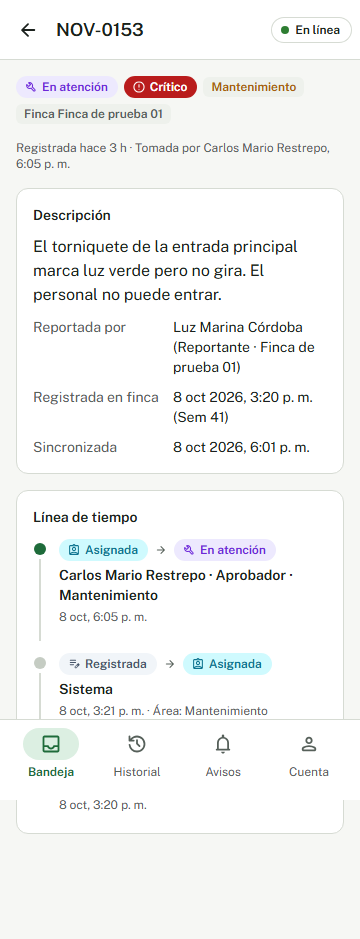
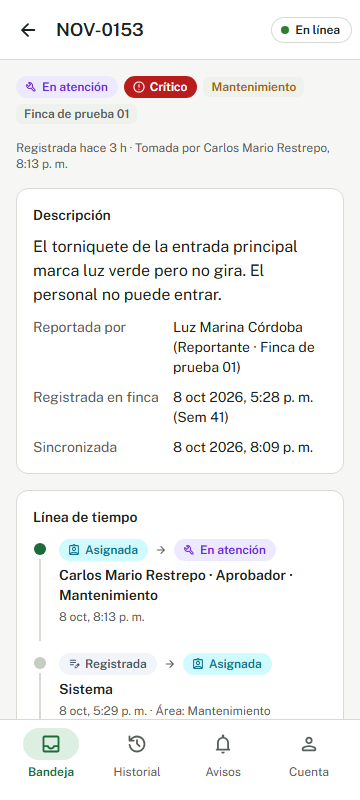
test(RF-18): e2e de CU-18, capturas y detalles del detalle
cu-18-consultar-detalle.spec.js (curso normal y alterno 2a por rol), capturas a 360 x 800 y 1280 x 800, lo que Figma no decide de las pantallas 13, 14, 22 y 22-B en docs/decisiones-pendientes.md, la etiqueta de la finca sin repetir «Finca», la marca de tiempo solo sobre la fecha y más margen para las esperas de las pruebas unitarias.

diff --git a/e2e/cu-18-consultar-detalle.spec.js b/e2e/cu-18-consultar-detalle.spec.js
@@ -1,0 +1,142 @@
+import { expect, test } from '@playwright/test'
+import { registrarPorLaApi } from './apoyo/novedades.js'
+import { descripcionUnica } from './apoyo/registro.js'
+import { HAY_CLAVE, ingresarComo, MOTIVO_SIN_CLAVE } from './apoyo/usuarios.js'
+
+/*
+ * CU-18 · Consultar el detalle y la línea de tiempo de una novedad (RF-18). Pantallas 13 y 14
+ * (teléfono), 22 (escritorio) y 22-B (sin permiso).
+ *
+ * El alcance lo decide la base de datos (RNF-11): quien no puede ver la novedad recibe una
+ * consulta sin filas y la aplicación muestra 22-B.
+ */
+
+// Al abrir una dirección, la aplicación recupera la sesión antes de pintar: misma espera que
+// el ingreso.
+const ESPERA_DE_SESION = { timeout: 20_000 }
+
+const SIN_PERMISO = { level: 1, name: 'No puedes ver esta novedad' }
+
+test.describe('CU-18 · Consultar el detalle y la línea de tiempo', () => {
+  test.skip(!HAY_CLAVE, MOTIVO_SIN_CLAVE)
+
+  /** Abre una sesión aparte para un rol. */
+  const sesionDe = async (browser, rol) => {
+    const contexto = await browser.newContext()
+    const page = await contexto.newPage()
+    await ingresarComo(page, rol)
+    return { contexto, page }
+  }
+
+  test('RF-18 / CU-18: el reportante abre su novedad desde Mis novedades y ve su línea de tiempo; el de otra finca no', async ({
+    browser,
+  }, testInfo) => {
+    const descripcion = descripcionUnica(testInfo, 'La bomba de riego del lote 4 no enciende')
+
+    // El reportante registra la novedad y la abre desde su lista.
+    const { contexto, page } = await sesionDe(browser, 'reportante')
+    const novedad = await registrarPorLaApi(page, {
+      descripcion,
+      prioridad: 'alto',
+      area: 'Mantenimiento',
+    })
+    const codigo = `NOV-${String(novedad.codigo).padStart(4, '0')}`
+    await page.reload()
+    await page.getByRole('listitem').filter({ hasText: descripcion }).getByRole('link').click()
+
+    // CU-18 3: código, estado, prioridad, área y descripción.
+    await expect(page).toHaveURL(new RegExp(`/novedades/${novedad.id}$`))
+    await expect(page.getByRole('heading', { level: 1, name: codigo })).toBeVisible()
+    const datos = page.getByRole('group', { name: 'Datos de la novedad' })
+    await expect(datos.getByText('Asignada')).toBeVisible()
+    await expect(datos.getByText('Alto')).toBeVisible()
+    await expect(datos.getByText('Mantenimiento')).toBeVisible()
+    await expect(page.getByText(descripcion)).toBeVisible()
+
+    // CU-18 4: la línea de tiempo trae la creación y el enrutamiento, del más reciente al
+    // más antiguo.
+    const pasos = page.getByRole('region', { name: 'Línea de tiempo' }).getByRole('listitem')
+    await expect(pasos).toHaveCount(2)
+    await expect(pasos.nth(0).getByText('Sistema')).toBeVisible()
+    await expect(pasos.nth(0).getByText(/Área: Mantenimiento$/)).toBeVisible()
+    await expect(pasos.nth(1).getByText('Reportante de prueba 01 · Reportante')).toBeVisible()
+
+    // Vuelve a la lista de la que salió.
+    await page.getByRole('link', { name: 'Volver a mis novedades' }).click()
+    await expect(page).toHaveURL(/\/novedades$/)
+    await contexto.close()
+
+    // CU-18 2a: el reportante de otra finca, con la misma dirección, no puede verla.
+    const otro = await sesionDe(browser, 'reportanteOtraFinca')
+    await otro.page.goto(`/novedades/${novedad.id}`)
+    await expect(otro.page.getByRole('heading', SIN_PERMISO)).toBeVisible(ESPERA_DE_SESION)
+    await expect(
+      otro.page.getByText('Solo puedes consultar las novedades de tu finca.'),
+    ).toBeVisible()
+    await expect(otro.page.getByText(descripcion)).toHaveCount(0)
+    await otro.page.getByRole('link', { name: 'Volver a mis novedades' }).click()
+    await expect(otro.page).toHaveURL(/\/novedades$/)
+    await otro.contexto.close()
+  })
+
+  test('RF-18 / CU-18 2 y 5: el aprobador del área y el director la consultan; el aprobador de la otra área no', async ({
+    browser,
+  }, testInfo) => {
+    const descripcion = descripcionUnica(testInfo, 'El computador de la báscula no enciende')
+
+    const reportante = await sesionDe(browser, 'reportante')
+    const novedad = await registrarPorLaApi(reportante.page, {
+      descripcion,
+      prioridad: 'normal',
+      area: 'Sistemas',
+    })
+    const codigo = `NOV-${String(novedad.codigo).padStart(4, '0')}`
+    await reportante.contexto.close()
+
+    // El aprobador del área (Sistemas) la ve, con su línea de tiempo.
+    const sistemas = await sesionDe(browser, 'aprobadorSistemas')
+    await sistemas.page.goto(`/novedades/${novedad.id}`)
+    await expect(sistemas.page.getByRole('heading', { level: 1, name: codigo })).toBeVisible(
+      ESPERA_DE_SESION,
+    )
+    await expect(sistemas.page.getByText(descripcion)).toBeVisible()
+    await expect(
+      sistemas.page.getByRole('region', { name: 'Línea de tiempo' }).getByRole('listitem'),
+    ).toHaveCount(2)
+    await sistemas.contexto.close()
+
+    // CU-18 2a: el aprobador de la otra área (Mantenimiento) recibe 22-B.
+    const mantenimiento = await sesionDe(browser, 'aprobador')
+    await mantenimiento.page.goto(`/novedades/${novedad.id}`)
+    await expect(mantenimiento.page.getByRole('heading', SIN_PERMISO)).toBeVisible(ESPERA_DE_SESION)
+    await expect(
+      mantenimiento.page.getByText('Solo puedes consultar las novedades de tu área.'),
+    ).toBeVisible()
+    await expect(mantenimiento.page.getByText(descripcion)).toHaveCount(0)
+    await mantenimiento.contexto.close()
+
+    // El director la consulta, pero sobre una asignada no tiene acciones (SDD, Tabla 35).
+    const director = await sesionDe(browser, 'director')
+    await director.page.goto(`/novedades/${novedad.id}`)
+    await expect(director.page.getByRole('heading', { level: 1, name: codigo })).toBeVisible(
+      ESPERA_DE_SESION,
+    )
+    await expect(director.page.getByText(descripcion)).toBeVisible()
+    await expect(director.page.getByRole('main').getByRole('button')).toHaveCount(0)
+    await director.contexto.close()
+  })
+
+  test('RF-18 / CU-18 2a: una dirección que no corresponde a ninguna novedad muestra 22-B', async ({
+    page,
+  }) => {
+    await ingresarComo(page, 'aprobador')
+
+    await page.goto('/novedades/00000000-0000-4000-8000-000000000000')
+    await expect(page.getByRole('heading', SIN_PERMISO)).toBeVisible(ESPERA_DE_SESION)
+
+    await page.goto('/novedades/no-es-un-identificador')
+    await expect(page.getByRole('heading', SIN_PERMISO)).toBeVisible(ESPERA_DE_SESION)
+    await page.getByRole('link', { name: 'Volver a la bandeja' }).click()
+    await expect(page).toHaveURL(/\/bandeja$/)
+  })
+})

diff --git a/src/modules/e4-consulta/DetalleNovedad.test.jsx b/src/modules/e4-consulta/DetalleNovedad.test.jsx
@@ -120,10 +120,19 @@ describe('Pantallas 13 y 14 · Detalle de la novedad en el teléfono (RF-18 / CU
     const encabezado = within(screen.getByRole('group', { name: 'Datos de la novedad' }))
     expect(encabezado.getByText('Asignada')).toBeVisible()
     expect(encabezado.getByText('Crítico')).toBeVisible()
-    expect(encabezado.getByText('Finca Finca de prueba 01')).toBeVisible()
+    expect(encabezado.getByText('Finca de prueba 01')).toBeVisible()
     expect(encabezado.getByText('Mantenimiento')).toBeVisible()
     expect(screen.getByText(ASIGNADA.descripcion)).toBeVisible()
     expect(screen.getByText('Registrada hace 25 min')).toBeVisible()
+  })
+
+  it('RF-18: la etiqueta de la finca antepone «Finca» al nombre, como Figma, sin repetirlo', async () => {
+    conNovedad({ ...ASIGNADA, finca: 'El Ejemplo' })
+    abrir()
+    await screen.findByRole('heading', { level: 1 })
+
+    const encabezado = within(screen.getByRole('group', { name: 'Datos de la novedad' }))
+    expect(encabezado.getByText('Finca El Ejemplo')).toBeVisible()
   })
 
   it('RNF-09: distingue quién la reportó, cuándo se registró en la finca y cuándo se sincronizó', async () => {
@@ -146,7 +155,9 @@ describe('Pantallas 13 y 14 · Detalle de la novedad en el teléfono (RF-18 / CU
     const pasos = linea.getAllByRole('listitem')
     expect(pasos).toHaveLength(2)
     expect(within(pasos[0]).getByText('Sistema')).toBeVisible()
-    expect(within(pasos[0]).getByText('24 sep, 7:41 a. m. · Área: Mantenimiento')).toBeVisible()
+    expect(within(pasos[0]).getByText('24 sep, 7:41 a. m.').parentElement).toHaveTextContent(
+      '24 sep, 7:41 a. m. · Área: Mantenimiento',
+    )
     expect(within(pasos[1]).getByText('Luz Marina Córdoba · Reportante')).toBeVisible()
   })
 
@@ -336,7 +347,7 @@ describe('Pantalla 22 · Detalle completo en el escritorio (RF-18 / CU-18)', () 
     expect(encabezado.getByText('Asignada')).toBeVisible()
     expect(encabezado.getByText('Crítico')).toBeVisible()
     expect(encabezado.getByText('Mantenimiento')).toBeVisible()
-    expect(encabezado.getByText('Finca Finca de prueba 01')).toBeVisible()
+    expect(encabezado.getByText('Finca de prueba 01')).toBeVisible()
     expect(screen.getByText('Razón social de prueba A')).toBeVisible()
     expect(screen.getByRole('link', { name: 'Volver a la bandeja' })).toHaveAttribute(
       'href',

diff --git a/src/core/ui/LineaDeTiempo.jsx b/src/core/ui/LineaDeTiempo.jsx
@@ -34,13 +34,12 @@ function autor(transicion) {
   return [usuario.nombre, nombreDeRol(usuario.rol_id), usuario.area].filter(Boolean).join(' · ')
 }
 
-/** «24 sep, 7:40 a. m. · Área: Sistemas»: la fecha y, si cambió, el área. */
-function detalle(transicion) {
-  const fecha = formatearFechaCorta(transicion.fecha_hora)
+/** « · Área: Sistemas» después de la fecha, si la transición cambió el área. */
+function cambioDeArea(transicion) {
   const nueva = transicion.area_nueva?.nombre
-  if (!nueva) return fecha
+  if (!nueva) return ''
   const anterior = transicion.area_anterior?.nombre
-  return anterior ? `${fecha} · Área: de ${anterior} a ${nueva}` : `${fecha} · Área: ${nueva}`
+  return anterior ? ` · Área: de ${anterior} a ${nueva}` : ` · Área: ${nueva}`
 }
 
 /**
@@ -84,7 +83,10 @@ export function LineaDeTiempo({ transiciones, conPie = false }) {
                 </p>
                 <p className="text-etiqueta-fuerte break-words text-texto">{autor(transicion)}</p>
                 <p className="text-auxiliar text-texto-secundario">
-                  <time dateTime={transicion.fecha_hora}>{detalle(transicion)}</time>
+                  <time dateTime={transicion.fecha_hora}>
+                    {formatearFechaCorta(transicion.fecha_hora)}
+                  </time>
+                  {cambioDeArea(transicion)}
                 </p>
                 {transicion.observacion ? (
                   <p className="rounded-lg bg-gris-100 px-2.5 py-2 text-cuerpo-pequeno break-words text-texto">

diff --git a/src/core/ui/LineaDeTiempo.test.jsx b/src/core/ui/LineaDeTiempo.test.jsx
@@ -76,7 +76,9 @@ describe('Línea de tiempo (RF-18 / CU-18 4, Figma 3:817 y 4:2212)', () => {
 
     const enrutamiento = within(pasos()[3])
     expect(enrutamiento.getByText('Sistema')).toBeVisible()
-    expect(enrutamiento.getByText('21 sep, 9:15 a. m. · Área: Mantenimiento')).toBeVisible()
+    expect(enrutamiento.getByText('21 sep, 9:15 a. m.').parentElement).toHaveTextContent(
+      '21 sep, 9:15 a. m. · Área: Mantenimiento',
+    )
     expect(enrutamiento.queryByText(/Luz Marina/)).not.toBeInTheDocument()
   })
 
@@ -120,9 +122,9 @@ describe('Línea de tiempo (RF-18 / CU-18 4, Figma 3:817 y 4:2212)', () => {
 
     const reasignacion = within(pasos()[0])
     expect(reasignacion.getByText('Jhon Fredy Mosquera · Aprobador · Sistemas')).toBeVisible()
-    expect(
-      reasignacion.getByText('24 sep, 7:40 a. m. · Área: de Sistemas a Mantenimiento'),
-    ).toBeVisible()
+    expect(reasignacion.getByText('24 sep, 7:40 a. m.').parentElement).toHaveTextContent(
+      '24 sep, 7:40 a. m. · Área: de Sistemas a Mantenimiento',
+    )
     expect(
       reasignacion.getByText('Es un daño del aire acondicionado; lo atiende Mantenimiento.'),
     ).toBeVisible()

diff --git a/src/pruebas/preparacion.js b/src/pruebas/preparacion.js
@@ -1,7 +1,11 @@
 // Preparación común de las pruebas unitarias (Vitest + Testing Library).
 import '@testing-library/jest-dom/vitest'
-import { cleanup } from '@testing-library/react'
+import { cleanup, configure } from '@testing-library/react'
 import { afterEach } from 'vitest'
+
+// Las rutas cargan sus pantallas bajo demanda: la primera prueba que abre una paga la
+// importación, y con el equipo ocupado el segundo que espera `findBy…` por defecto no alcanza.
+configure({ asyncUtilTimeout: 3000 })
 
 afterEach(() => {
   cleanup()

diff --git a/e2e/apoyo/usuarios.js b/e2e/apoyo/usuarios.js
@@ -23,6 +23,13 @@ export const USUARIOS = {
     inicio: '/novedades',
     menu: ['Novedades', 'Registrar', 'Avisos', 'Cuenta'],
   },
+  // De otra finca y otra razón social: no ve las novedades del primero.
+  reportanteOtraFinca: {
+    correo: 'reportante.03@novedades.test',
+    nombre: 'Reportante de prueba 03',
+    inicio: '/novedades',
+    menu: ['Novedades', 'Registrar', 'Avisos', 'Cuenta'],
+  },
   aprobador: {
     correo: 'aprobador.mantenimiento@novedades.test',
     nombre: 'Aprobador de prueba Mantenimiento',

diff --git a/src/modules/e4-consulta/DetalleNovedad.jsx b/src/modules/e4-consulta/DetalleNovedad.jsx
@@ -79,7 +79,10 @@ function Etiquetas({ novedad }) {
       <Etiqueta className={COLOR_DEL_AREA[novedad.area] ?? 'text-texto-secundario'}>
         {novedad.area}
       </Etiqueta>
-      <Etiqueta>Finca {novedad.finca}</Etiqueta>
+      {/* Figma escribe «Finca Juanca»; si el nombre ya empieza por «Finca», no se repite. */}
+      <Etiqueta>
+        {/^finca\b/i.test(novedad.finca) ? novedad.finca : `Finca ${novedad.finca}`}
+      </Etiqueta>
     </>
   )
 }

diff --git a/docs/decisiones-pendientes.md b/docs/decisiones-pendientes.md
@@ -24,6 +24,7 @@ tomó la opción más conservadora y se dejó anotada para que Mateo y Juan la c
 | 17  | Pruebas que necesitan ingresar             | Corridas una vez contra «staging»; falta repetirlas tras un arreglo  | El equipo         |
 | 18  | Primer administrador de producción         | **Decidido:** una sola cuenta, compartida. Falta crearla             | El equipo         |
 | 19  | Detalles de la bandeja del área (11 y 12)  | Resueltos con el criterio más cercano a Figma; listados abajo        | El equipo (Figma) |
+| 20  | Detalles del detalle (13, 14, 22 y 22-B)   | Resueltos con el criterio más cercano a Figma; listados abajo        | El equipo (Figma) |
 
 ## 1 · Lista oficial de fincas y razones sociales
 
@@ -143,6 +144,13 @@ Redactados en español de Colombia, con tuteo, para que los revisen:
   1 min» como duración mínima; «Cargando…», «Ver más» y «Reintentar», como en Mis novedades. Para
   los lectores de pantalla: «Novedades de la bandeja» (pestañas), «Filtrar por finca», «Novedades:
   Por atender» (título de la tabla) y «Vista previa de NOV-0147».
+- **Detalle de la novedad (Sprint 2):** el enlace de regreso según la pantalla de origen
+  («Volver a la bandeja», «Volver a mis novedades», «Volver a las escaladas», «Volver al panel»;
+  Figma solo escribe «Volver al historial»); en 22-B, «Solo puedes consultar las novedades de tu
+  área.» para el aprobador y «Esta novedad no existe o ya no está disponible.» con «Volver al
+  inicio» para el director y el administrador (Figma solo dibuja el del reportante); en la línea de
+  tiempo, «Área: de Sistemas a Mantenimiento» para una reasignación, y «pasa a» entre los dos
+  estados para los lectores de pantalla; «Registró» en la solución, como la pantalla 09.
 - **Mensajes de error de la Tabla 22:** el SDD da la idea de cada uno; la redacción exacta está en
   `src/core/errores/traducir.js`.
 
@@ -185,8 +193,8 @@ Puntos en los que Figma no alcanza a decidir, o en los que se contradice:
   suaves que existen: Alto con advertencia suave, Normal con información suave y Bajo con gris.
 - **Alto de las tarjetas de prioridad.** En Figma cada tarjeta mide lo que ocupa su texto
   (86 y 102 px en la misma fila). En la aplicación las dos de una fila miden lo mismo.
-- **«Ver novedad» en la constancia.** El detalle llega en el Sprint 2; por ahora lleva a Mis
-  novedades. Por lo mismo, las tarjetas de la lista todavía no se pueden abrir.
+- **«Ver novedad» en la constancia.** **Resuelto en el Sprint 2:** abre el detalle de la novedad
+  (`/novedades/:id`), igual que las tarjetas de Mis novedades y las de la bandeja.
 - **«Revisar» en el aviso de novedades por confirmar.** Cambia al filtro «Por confirmar». La
   confirmación como tal (CU-15) es del Sprint 2.
 - **Cerrar el formulario con datos escritos.** La «X» sale sin preguntar y lo escrito se pierde.
@@ -313,3 +321,39 @@ decisiones 1, 4, 5, 14 y 15):
 - **Fila bajo el cursor.** Se sombrea con `gris-100`; Figma no dibuja ese estado (punto 9).
 - **Duraciones.** Las dos unidades mayores, sin redondear hacia arriba: «35 min», «5 h 20 min»,
   «1 d 3 h».
+
+## 20 · Detalles del detalle de la novedad (13, 14, 22 y 22-B)
+
+Lo que Figma no alcanza a decidir, o en lo que sus pantallas no coinciden entre sí, y cómo quedó
+(plan del Sprint 2, decisiones 1, 3, 10, 12, 13, 17 y 19):
+
+- **Lo que llega en otro sprint no se pinta todavía:** el bloque «Evidencias» (Sprint 4), la
+  etiqueta «Registrada sin conexión» (Sprint 4), «Corregir tipo» (Sprint 5) y el menú «⋮» del
+  encabezado, cuyo contenido Figma no dibuja.
+- **Usuario en la línea de tiempo.** «Nombre · Rol · Área» en el teléfono y en el escritorio, como
+  la pantalla 22 y como pide SDD 5.2.5. Las pantallas 13, 14 y 09 escriben «Nombre · Área» para el
+  aprobador.
+- **«Sincronizada» y la semana.** El teléfono muestra siempre «Sincronizada» (13 la dibuja y 14
+  no) y escribe la fecha de registro con su semana, «(Sem 39)», como 09 y 22 (13 y 14 no la traen).
+- **Orden de las etiquetas.** Estado, prioridad, área y finca, como 09 y 22; en 13 y 14 la finca va
+  antes que el área. La etiqueta antepone «Finca» al nombre, como Figma («Finca Juanca»), salvo que
+  el nombre ya empiece así.
+- **«Tomada por».** Sale de la última vez que la novedad pasó de asignada a en atención, para que
+  en el Sprint 3 «la falla persiste» no muestre al reportante. Lleva solo la hora si fue hoy; si
+  no, también la fecha («22 sep, 10:20 a. m.»). Se muestra mientras la novedad está en atención.
+- **«Registrada hace…» en el escritorio.** Figma solo dibuja en el escritorio una novedad cerrada.
+  Para las que están en manos del área, la línea «Registrada hace 3 h · Tomada por…» va bajo la
+  razón social.
+- **Novedad resuelta en el teléfono.** Para todos los roles se usa el bloque de la pantalla 09:
+  «Solución registrada por {área}», con el tipo de falla, la fecha de ejecución y quién la registró.
+- **22-B sin el código.** Figma pone el código en el encabezado, pero cuando la consulta no
+  devuelve filas la aplicación no lo conoce (la dirección lleva el identificador): el encabezado
+  dice «Novedad». La pantalla no distingue una novedad fuera del alcance de una que no existe,
+  porque la base de datos responde igual en los dos casos.
+- **Barras del teléfono.** El detalle trae su propia barra superior, con «volver», y conserva la
+  navegación inferior, como 22-B. Cuando haya acciones (PR 4), su barra la reemplaza, como en 13
+  y 14.
+- **Menú en el detalle.** Queda marcada la pantalla desde la que se abrió (Bandeja, Novedades…);
+  si se llegó por la dirección, la de inicio del rol.
+- **Anchos entre 1024 y 1279 px.** La línea de tiempo va debajo de los datos; desde 1280 px, a la
+  derecha, con los 400 px de Figma.
